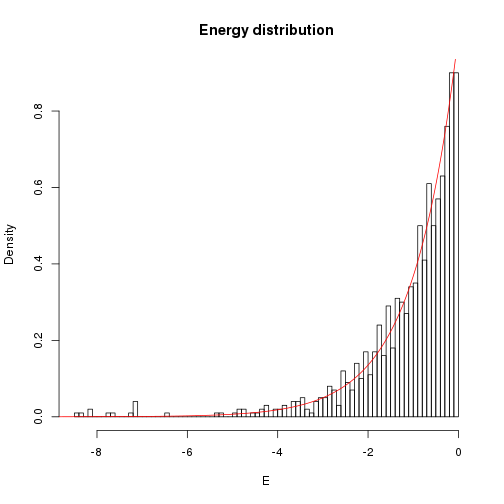
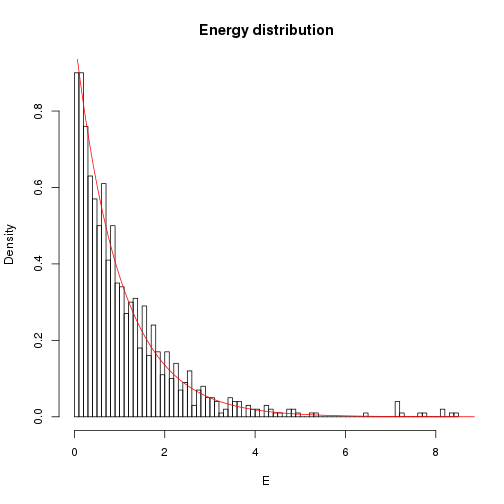
:frog: Added leapfrog.

Changed region(s): [[0.119, 0.119, 0.9226, 0.8631], [0.3571, 0.8929, 0.3869, 0.9226], [0.1786, 0.8929, 0.2083, 0.9226]]

diff --git a/2018-03-07-HMC/2018-03-07-HMC.md b/2018-03-07-HMC/2018-03-07-HMC.md
@@ -3,10 +3,16 @@ Hamiltonian Monte Carlo
 author: Jonas Moss
 date: Mars 2018
 autosize: true
+transition: zoom
+transition-speed: slow
+navigation: section
+width: 1440
+height: 900
 
 The Hamiltonian
 ===============================================================================
-
+type: section
+incremental: true
 * $p_{i}$: The ith momentum component ($mv$).
 * $q_{i}$: The ith position component.
 * $\mathcal{H}$: The Hamiltonian.
@@ -16,17 +22,21 @@ The Hamiltonian
 
 What about the physics?
 ===============================================================================
+type: sub-section
+incremental: true
 * Assume $\mathcal{H} = U(q) + K(p)$ 
 * $U$ is the *potential energy* of our particle in position $q$.
 * $K$ is the *kinetic energy* of our particle with momentum $p$.
 * Newton's 2nd law: $F=ma=\frac{dq}{dt}$
-  * Potential energy: Think of a "gravity well". The potential energy
-    is zero at the bottom of the well.
+  * Potential energy: Think about gravity. The potential energy of an object
+    caught in Earth's gravitational field is $mgh$. $g = a$ in this case. 
 * Velocity: $\frac{dp_{i}}{dt} = v$
   * Kinetic energy: $K(q) = \frac{1}{2}mv^2$
 
 Hamiltonian dynamics
 ===============================================================================
+type: sub-section
+incremental: true
 * Restatement of Hamiltonian dynamics:
   * $F = \frac{dp_{i}}{dt} = \frac{\partial U}{\partial q_{i}}$
   * $v = \frac{dq_{i}}{dt} = -\frac{\partial K}{\partial p_{i}}$
@@ -39,6 +49,8 @@ Hamiltonian dynamics
   
 Hamiltionians in probability.
 ===============================================================================  
+type: sub-section
+incremental: true
 * Recall that $\mathcal{H} = U(q) + K(p)$ 
 * Let $U(q) = -\log\pi(q)$: The potential energy surface is the nagative 
   logarithm of the target density.
@@ -50,6 +62,8 @@ Hamiltionians in probability.
 
 Idealized Hamiltonian Monte Carlo
 ===============================================================================
+type: section
+incremental: true
 For an initial position $p^{0}$, repeat a large number of times.
 
 1. Sample a momentum from $\pi(q)$, the moment proposal density.
@@ -58,7 +72,9 @@ For an initial position $p^{0}$, repeat a large number of times.
 
 Problem: Explicit solutions are rare.
 ===============================================================================
-* Systems of differential equations are almost never analytically.
+type: sub-section
+incremental: true
+* Systems of differential equations are almost never analytically solvable.
 * Honorable exception: Linear systems are solvable.
 * We have to numerically integrate the Hamiltionan system!
 * Adds several complications: Must choose tuning parameters.
@@ -69,102 +85,123 @@ Problem: Explicit solutions are rare.
 
 Normal distribution: A linear problem
 ===============================================================================
+type: section
+incremental: true
+
 * $U(q) = - \log(\pi(q)) = \frac{q^2}{2}$: Normal target distribution.
+
 * $K(p) = - \log(\pi(p)) = \frac{p^2}{2}$: Normal proposal distribution.
 
-System reduces to
-
-\[
-\begin{array}{ccc}
-\frac{dq_{i}}{dt} & = & p\\
-\frac{dp_{i}}{dt} & = & q
-\end{array}
-\]
+* System reduces to
+  \[
+  \begin{array}{ccc}
+  \frac{dq_{i}}{dt} & = & p\\
+  \frac{dp_{i}}{dt} & = & q
+  \end{array}
+  \]
 
 Normal distribution: A harmonic oscillator
 ===============================================================================
+type: sub-section
+incremental: true
+* Solutions:
+  \[
+  \begin{array}{ccc}
+  q\left(t\right) & = & r\cos\left(a+t\right)\\
+  p\left(t\right) & = & -r\sin\left(a+t\right)
+  \end{array}
+  \]
 
-Solutions: 
+* Circle with radius $r = \sqrt(p^2 + q^2)$ and shift $a$. 
 
-\[
-\begin{array}{ccc}
-q\left(t\right) & = & r\cos\left(a+t\right)\\
-p\left(t\right) & = & -r\sin\left(a+t\right)
-\end{array}
-\]
+* The energy is $E = \frac{1}{2}(p^2 + q^2) = \frac{1}{2}r^2$
 
-Circle with radius $r = \sqrt(p^2 + q^2)$ and shift $a$. 
-
-The energy is $E = -\frac{1}{2}(p^2 + q^2) = -\frac{1}{2}r^2$
-
-Normal distribution: A circle in phase space
+Normal distribution: Plot
 ===============================================================================
+type: sub-section
 
 ![plot of chunk unnamed-chunk-1](2018-03-07-HMC-figure/unnamed-chunk-1-1.png)
 
 What about the energy distribution?
 ===============================================================================
-* The energy level is distributed according to $-\frac{1}{2}\chi^2(2)$.
+type: section
+incremental: true
+* The energy level is distributed according to $\frac{1}{2}\chi^2(2)$.
 * Alternative sampling strategy: 
-  1. Sample $E$ from $-\frac{1}{2}\chi^2(2)$, 
+  1. Sample $E$ from $\frac{1}{2}\chi^2(2)$, 
   2. $(q, p)$ uniformly from the circle with radius $\sqrt(-2E)$.  
   3. Project on $q$.
   
 Energy distribution, R code
 ===============================================================================
+type: sub-section
+incremental: true
 
 ```r
 set.seed(313)
 n = 10000
-E = -1/2*rchisq(n, 2)
+E = 1/2*rchisq(n, 2)
 theta = runif(n, 0, 2*pi)
-q = sqrt(-2*E)*cos(theta)
-p = -sqrt(-2*E)*sin(theta)
+q = sqrt(2*E)*cos(theta)
+p = -sqrt(2*E)*sin(theta)
 ```
 
 Energy distribution, density
 ===============================================================================
+type: sub-section
 ![plot of chunk unnamed-chunk-3](2018-03-07-HMC-figure/unnamed-chunk-3-1.png)
 
 Monte Carlo variant
 ===============================================================================
+type: section
+incremental: true
 * Monte Carlo change:
-  1. Sample $E_{i+1}$ from $-\frac{1}{2}(\chi^2(1) + q_{i}^2)$, 
-  2. $(q, p)$ uniformly from the circle with radius $\sqrt(-2E)$.  
+  1. Sample $E_{i+1}$ from $\frac{1}{2}(\chi^2(1) + q_{i}^2)$, 
+  2. $(q, p)$ uniformly from the circle with radius $\sqrt(2E)$.  
   3. Project on $q$.
-* Note that $E ~ -\frac{1}{2}\chi^2(2)$ in the limit when $q_{i}$.
+* Note that $E \sim \frac{1}{2}\chi^2(2)$ in the limit when $q_{i}$.
 * And vice versa!
 
 Monte Carlo variant, R  code
 ===============================================================================
+type: sub-section
+incremental: true
 
 ```r
 n = 1000
 q = rep(0, n) # Positions, normal 
-E = rep(0, n) # Energies, -1/2*chi^2(2) 
+E = rep(0, n) # Energies, 1/2*chi^2(2) 
 p = rnorm(n, mean = 0, sd = 1)
 theta = runif(n, 0, 2*pi) 
 
 for(i in 2:n) {
-  E[i] = -1/2*(q[i - 1]^2 + p[i]^2)
-  q[i] = sqrt(-2*E[i])*cos(theta[i])
+  E[i] = 1/2*(q[i - 1]^2 + p[i]^2)
+  q[i] = sqrt(2*E[i])*cos(theta[i])
 }
 ```
 
 Monte Carlo variant, ACF
 ===============================================================================
+type: sub-section
+incremental: true
 ![plot of chunk unnamed-chunk-5](2018-03-07-HMC-figure/unnamed-chunk-5-1.png)
 
 Monte Carlo variant, density
 ===============================================================================
+type: sub-section
+incremental: true
 ![plot of chunk unnamed-chunk-6](2018-03-07-HMC-figure/unnamed-chunk-6-1.png)
 
 Monte Carlo variant, energies
 ===============================================================================
+type: sub-section
+incremental: true
 ![plot of chunk unnamed-chunk-7](2018-03-07-HMC-figure/unnamed-chunk-7-1.png)
 
 Euler's method 
 ===============================================================================
+type: section
+incremental: true
 Light and simple differential equation solver. 
 \[
 \begin{array}{ccc}
@@ -183,11 +220,14 @@ q_{i}\left(t+\epsilon\right) & = & q_{i}\left(t\right)+\epsilon\frac{dK}{dp_{i}}
 
 Euler's method is unacceptable!
 ===============================================================================
+incremental: true
+type: sub-section
 ![plot of chunk unnamed-chunk-8](2018-03-07-HMC-figure/unnamed-chunk-8-1.png)
 
 The Leapfrog
 ===============================================================================
-
+incremental: true
+type: section
 A *symplectic integrator*. Known as the velocity vervlet.
 \[
 \begin{eqnarray*}
@@ -199,6 +239,8 @@ p_{i}\left(t+\epsilon\right) & = & p_{i}\left(t+\frac{\epsilon}{2}\right)-\epsil
 
 Some Motivation
 ===============================================================================
+incremental: true
+type: sub-section
 * Euler: $y(t+\epsilon) = y(t) + \epsilon f(y(t))$; based on $g'(x)
   \approx \frac{1}{\epsilon}(g(x + \epsilon) - g(x))$ 
 * Numerical differentation of the form 
@@ -211,14 +253,18 @@ Some Motivation
 
 Performance of Leapfrog (eps = 1)
 ===============================================================================
+incremental: true
+type: sub-section
 ![plot of chunk unnamed-chunk-9](2018-03-07-HMC-figure/unnamed-chunk-9-1.png)
 
 Performance of Leapfrog (eps = 0.1)
 ===============================================================================
+type: sub-section
 ![plot of chunk unnamed-chunk-10](2018-03-07-HMC-figure/unnamed-chunk-10-1.png)
 
 Properties of Leapfrog
 ===============================================================================
+type: sub-section
 1. Second order method: In general better than Euler. 
   * Measures how much the error grows in terms of $\epsilon$. First order has
     error $O(\epsilon)$ second order $O(\epsilon^2)$ etc.
@@ -232,9 +278,10 @@ Properties of Leapfrog
 
 Choosing L and epsilon
 ===============================================================================
-* $L$: The length of the trajectory.
-  * Too large makes the sampler more Metropolisy: Uses a long time to explore an
-    energy level.
+type: sub-section
+* $L$: Number of \epsilon steps taken.
+  * Too small makes the sampler more Metropolisy: Uses a long time to explore 
+    an energy level.
   * Too large takes a long time to compute.
   * Large $L$ will transfer you back to the beginning.
 * $\epsilon$: The step-size used in the leapfrog integrator.
@@ -245,7 +292,14 @@ Choosing L and epsilon
   
 Fixing the inexactness
 ===============================================================================
-We use Metropolis to fix the inexactness of the method. Describe.
+type: section
+* The Leapfrog integrater is inexact.
+* To fix the inexactness we use Metropolis-Hastings decide on whether to
+  accept a sample or not. 
+* The goal is to make the $(p, q)$-sampling work as intended, then project.
+* Acceptance probability: 
+  $\min(1, \exp(\mathcal{H}(q_L, p_L)) − \exp(\mathcal{H}(q_0, p_0)))$
+* Note: Only used to fixed inexactness, no Metropolis-Hastings for the normal
+  experiment!
 
-How many samples to take from a trajectory.
-===============================================================================
+
